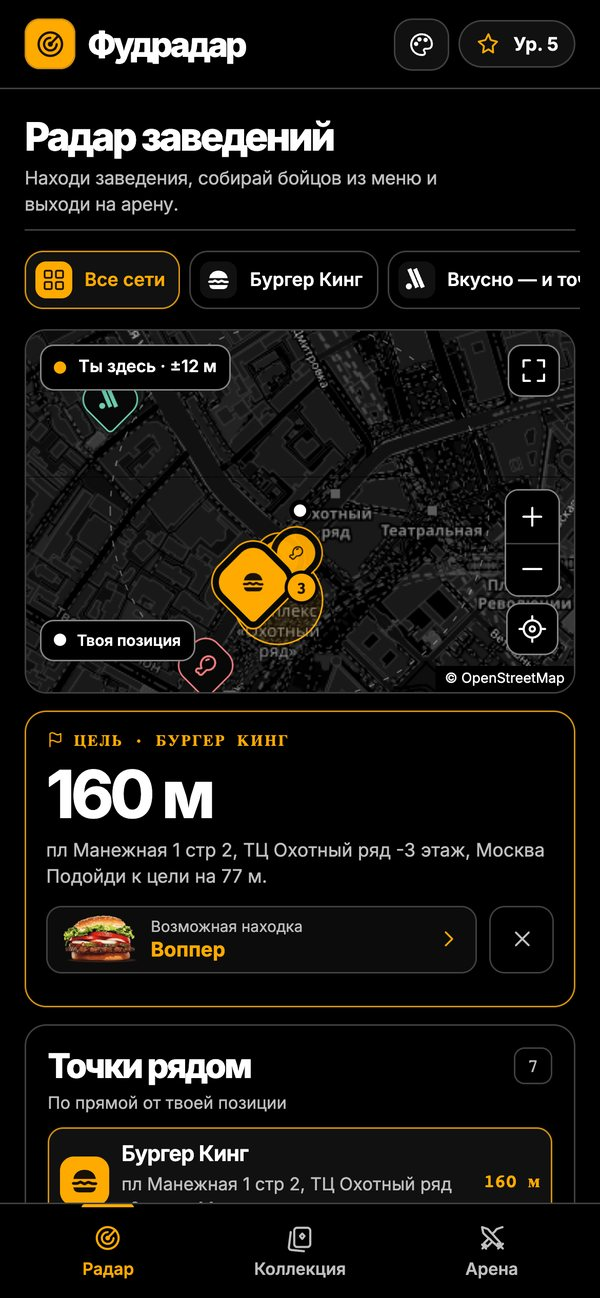
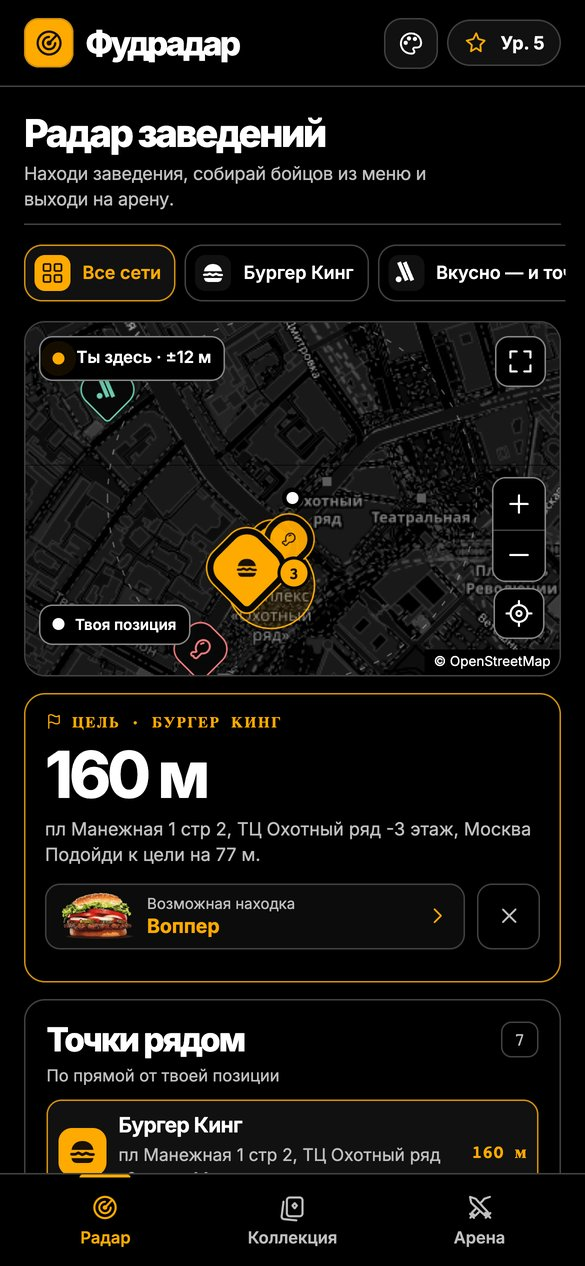
Line up the README screenshots and fix the burn wording

diff --git a/public/js/fighters.js b/public/js/fighters.js
@@ -299,7 +299,7 @@ export function describeSkill(skill, attack) {
     parts.push(count(Math.max(0, attack + skill.power), { one: 'урон', few: 'урона', many: 'урона', other: 'урона' }) + (skill.pierce ? ' сквозь защиту' : ''));
   }
   if (skill.execute) parts.push('+' + skill.execute + ' по раненому сопернику');
-  if (skill.burn) parts.push('поджигает: −' + skill.burn.dmg + ' HP после каждого из ' + count(skill.burn.turns, TURNS) + ' соперника');
+  if (skill.burn) parts.push('поджигает на ' + count(skill.burn.turns, TURNS) + ' соперника: −' + skill.burn.dmg + ' HP за ход');
   if (skill.weaken) parts.push('атака соперника −' + skill.weaken);
   if (skill.sap) parts.push('соперник теряет всю энергию');
   if (skill.drain) parts.push('лечит на половину урона');

diff --git a/README.md b/README.md
@@ -5,11 +5,11 @@
 ![Радар заведений: карта, цель и точки рядом](docs/screenshots/radar.jpg)
 
 <p align="center">
-  <img src="docs/screenshots/phone.jpg" width="23%" alt="Цель на телефоне: расстояние, адрес и возможная находка" />
+  <img src="docs/screenshots/phone.jpg" width="31%" alt="Цель на телефоне: расстояние, адрес и возможная находка" />
   &nbsp;
-  <img src="docs/screenshots/collection.jpg" width="37%" alt="Коллекция с колодой из трёх бойцов" />
+  <img src="docs/screenshots/collection.jpg" width="31%" alt="Коллекция с колодой из трёх бойцов" />
   &nbsp;
-  <img src="docs/screenshots/battle.jpg" width="37%" alt="Ангус Пармеджано бьёт суперприёмом «Коронация»" />
+  <img src="docs/screenshots/battle.jpg" width="31%" alt="Бой: фирменный приём и суперприём «Коронация»" />
 </p>
 
 ## Как играть
